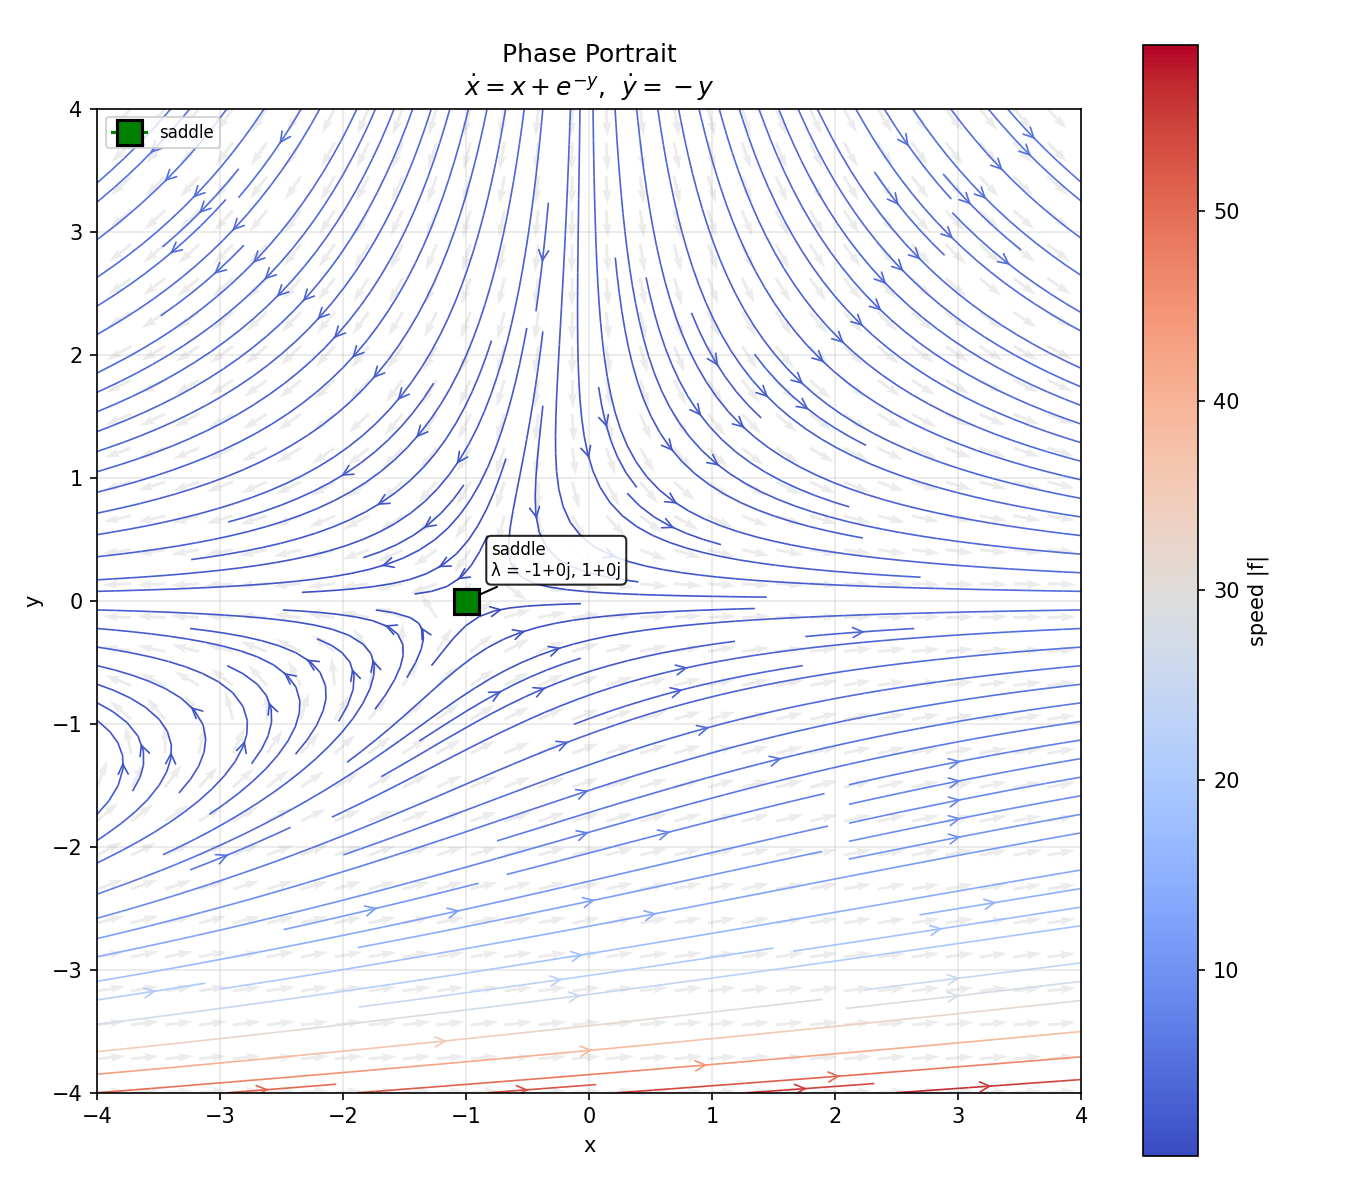
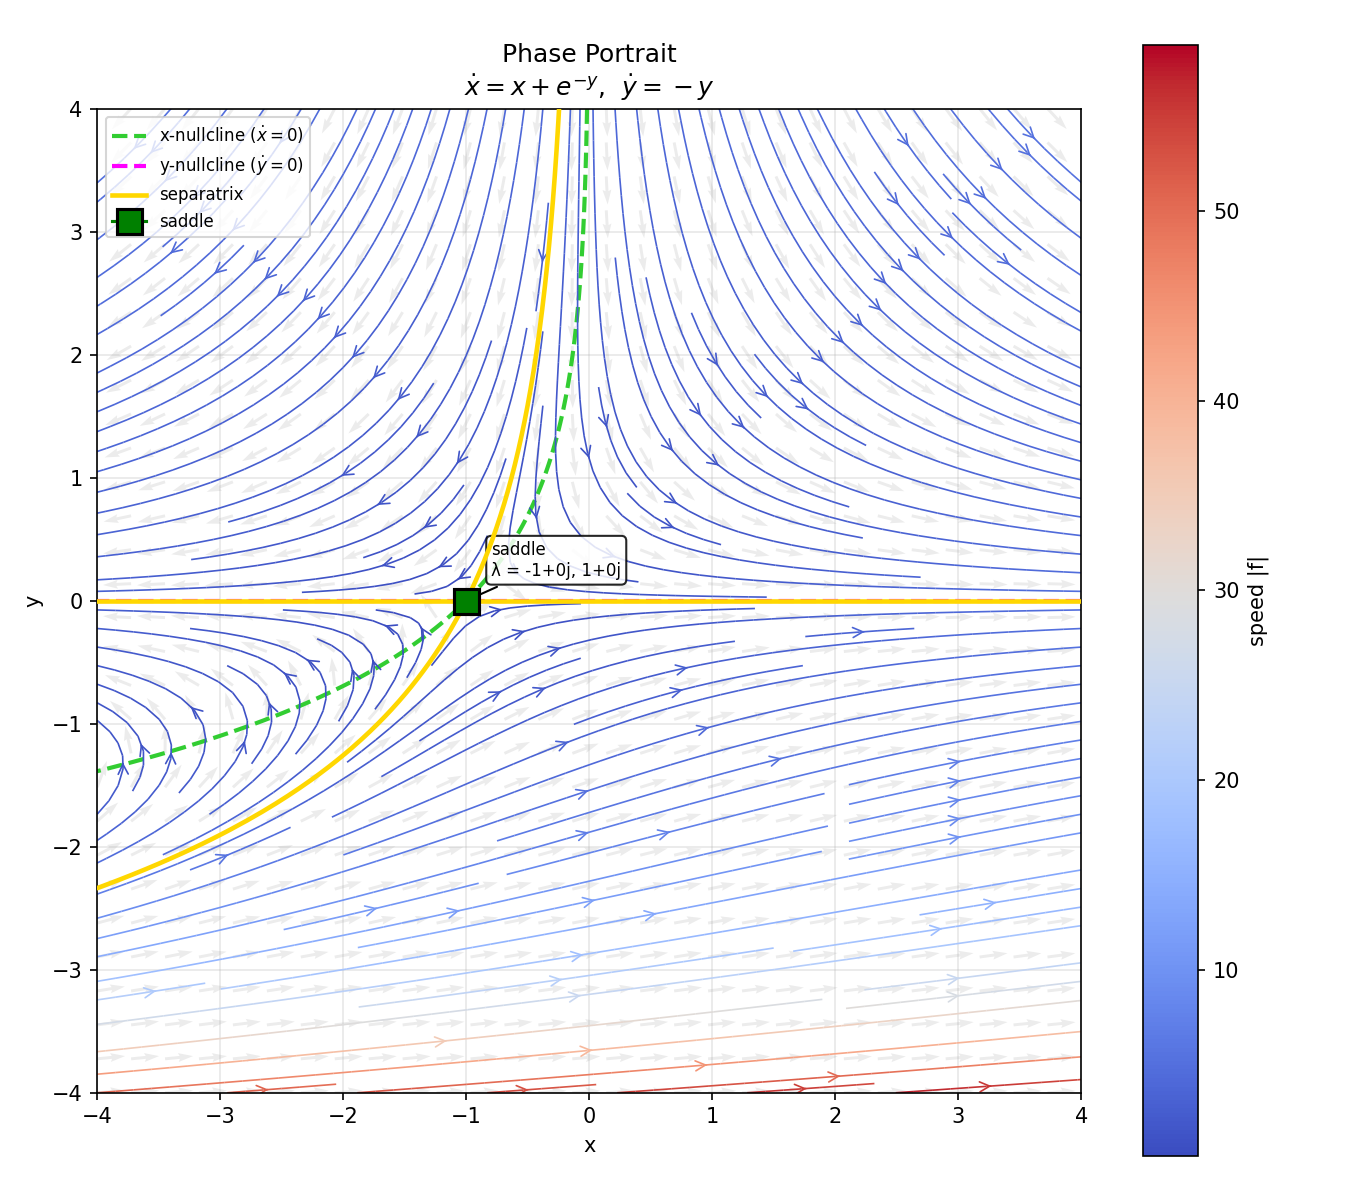
Add nullclines and separatrices to phase portrait
Draw x-nullcline (dx/dt=0) and y-nullcline (dy/dt=0) as dashed contours,
and compute separatrices at saddle points by integrating along the stable
and unstable eigenvectors of the Jacobian.

diff --git a/phase_portrait.py b/phase_portrait.py
@@ -2,6 +2,7 @@ import sympy as sp
 import numpy as np
 import matplotlib.pyplot as plt
 from matplotlib.colors import Normalize
+from scipy.integrate import solve_ivp
 
 
 def find_equilibria(f_expr, g_expr, x, y, search_range=(-10, 10)):
@@ -64,17 +65,35 @@ def plot_phase_portrait(f_expr, g_expr, x, y,
         classifications[eq] = (cls, eigs)
 
     # --- Set up grid ---
+    nullcline_n = 400  # finer grid for smooth nullclines
     xs = np.linspace(xlim[0], xlim[1], grid_n)
     ys = np.linspace(ylim[0], ylim[1], grid_n)
     X, Y = np.meshgrid(xs, ys)
     U = f_func(X, Y)
     V = g_func(X, Y)
 
+    xs_fine = np.linspace(xlim[0], xlim[1], nullcline_n)
+    ys_fine = np.linspace(ylim[0], ylim[1], nullcline_n)
+    Xf, Yf = np.meshgrid(xs_fine, ys_fine)
+    Uf = f_func(Xf, Yf)
+    Vf = g_func(Xf, Yf)
+
     speed = np.sqrt(U**2 + V**2)
     speed = np.where(speed == 0, 1e-10, speed)
 
     # --- Plot ---
     fig, ax = plt.subplots(figsize=(9, 8))
+
+    # Nullclines
+    ax.contour(Xf, Yf, Uf, levels=[0], colors="limegreen",
+               linewidths=2, linestyles="--")
+    ax.contour(Xf, Yf, Vf, levels=[0], colors="magenta",
+               linewidths=2, linestyles="--")
+    # Proxy artists for legend
+    ax.plot([], [], color="limegreen", ls="--", lw=2,
+            label=f"x-nullcline ($\\dot{{x}}=0$)")
+    ax.plot([], [], color="magenta", ls="--", lw=2,
+            label=f"y-nullcline ($\\dot{{y}}=0$)")
 
     # Streamplot with speed-based coloring
     norm = Normalize(vmin=speed.min(), vmax=speed.max())
@@ -86,6 +105,57 @@ def plot_phase_portrait(f_expr, g_expr, x, y,
     # Quiver (light background arrows)
     ax.quiver(X, Y, U / speed, V / speed, alpha=0.15, scale=35, width=0.003,
               color="gray")
+
+    # --- Separatrices at saddle points ---
+    def _integrate_separatrix(f_fn, g_fn, x0, y0, direction, T, xlim, ylim):
+        """Integrate a trajectory forward or backward from (x0, y0)."""
+        def rhs(t, state):
+            return [direction * f_fn(state[0], state[1]),
+                    direction * g_fn(state[0], state[1])]
+
+        def out_of_bounds(t, state):
+            margin = 0.5
+            return min(state[0] - (xlim[0] - margin),
+                       (xlim[1] + margin) - state[0],
+                       state[1] - (ylim[0] - margin),
+                       (ylim[1] + margin) - state[1])
+        out_of_bounds.terminal = True
+
+        sol = solve_ivp(rhs, [0, T], [x0, y0], max_step=0.02,
+                        events=out_of_bounds, dense_output=True)
+        return sol.y[0], sol.y[1]
+
+    for eq, (cls, eigs) in classifications.items():
+        if cls != "saddle":
+            continue
+        # Compute eigenvectors of Jacobian at saddle
+        J = sp.Matrix([
+            [sp.diff(f_expr, x), sp.diff(f_expr, y)],
+            [sp.diff(g_expr, x), sp.diff(g_expr, y)],
+        ])
+        J_at = J.subs({x: eq[0], y: eq[1]})
+        eigenpairs = J_at.eigenvects()
+        eps = 1e-3
+        T_sep = 20.0
+        sep_plotted = False
+        for eigenval, mult, vecs in eigenpairs:
+            ev = complex(eigenval)
+            vec = np.array([complex(vecs[0][0]), complex(vecs[0][1])]).real
+            vec = vec / np.linalg.norm(vec)
+            for sign in [1, -1]:
+                x0 = eq[0] + sign * eps * vec[0]
+                y0 = eq[1] + sign * eps * vec[1]
+                if ev.real > 0:
+                    # Unstable eigenvector: integrate forward
+                    sx, sy = _integrate_separatrix(
+                        f_func, g_func, x0, y0, 1, T_sep, xlim, ylim)
+                else:
+                    # Stable eigenvector: integrate backward (reverse time)
+                    sx, sy = _integrate_separatrix(
+                        f_func, g_func, x0, y0, -1, T_sep, xlim, ylim)
+                lbl = "separatrix" if not sep_plotted else None
+                ax.plot(sx, sy, color="gold", lw=2.2, zorder=4, label=lbl)
+                sep_plotted = True
 
     # --- Mark equilibria ---
     marker_style = {
